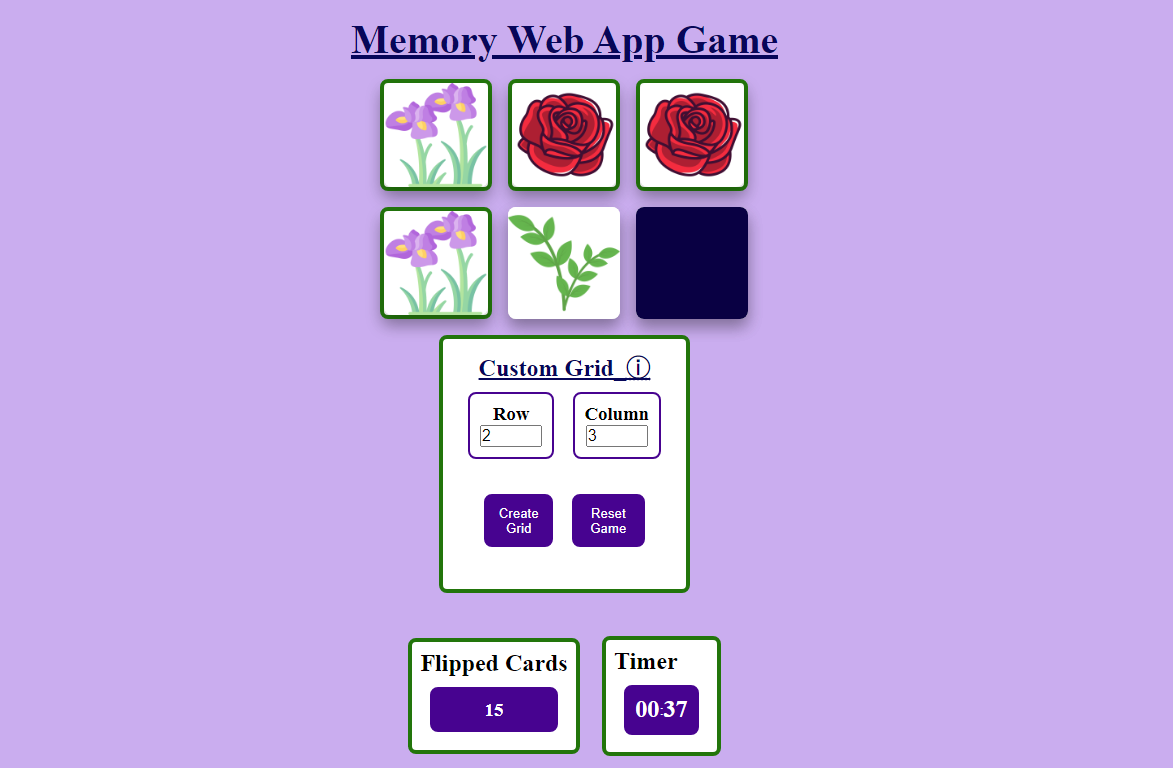
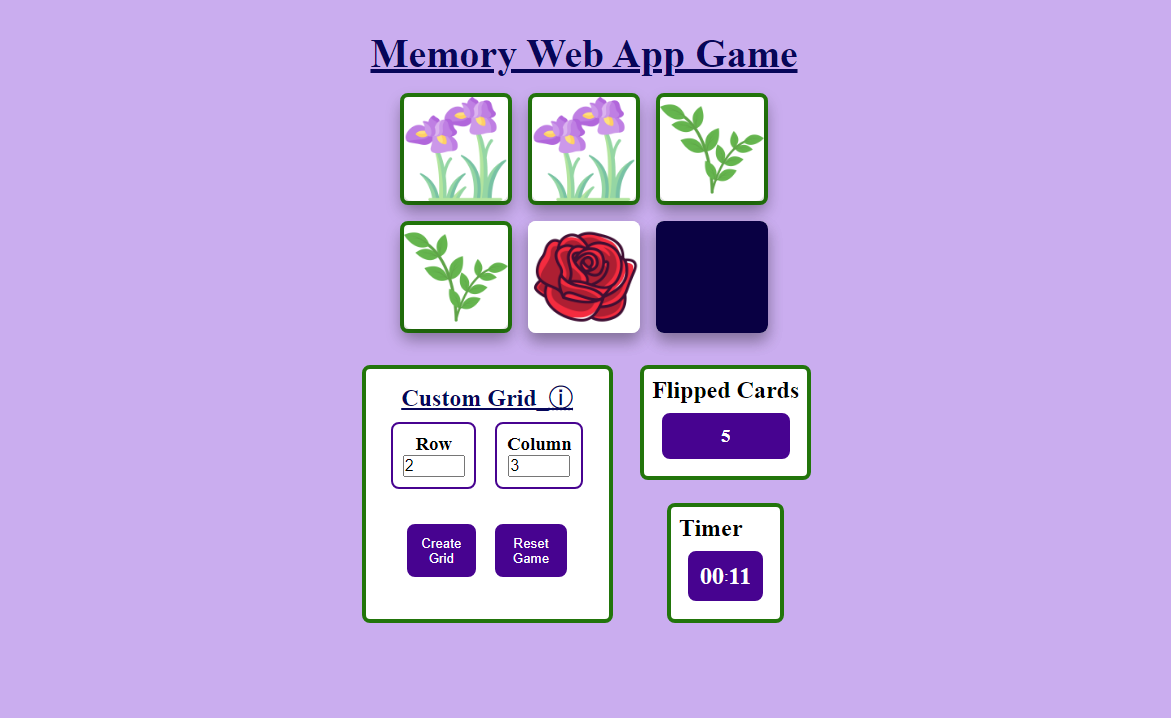
modified styling

Changed region(s): [[0.2767, 0.0306, 0.7071, 1.0]]

diff --git a/index.html b/index.html
@@ -15,30 +15,33 @@
         <section></section> 
     </div>
 
-    <div class="customGrid"> 
-      <h2 class="gridHeading">Custom Grid_  
-        <abbr title="Choose a number between 2 and 6 for both grids. Product of row and column must not be odd."> &#9432;</abbr>                                                                                                
-      </h2> 
+    <div class="features">
 
-      <div class="dimensions">
-        <div class="rows">
-          <h3>Row</h3>
-          <input type="number" id="rowValue" min="2" max="6" placeholder="rows">
-        </div> 
+      <div class="customGrid"> 
+        <h2 class="gridHeading">Custom Grid_  
+          <abbr title="Choose a number between 2 and 6 for both grids. Product of row and column must not be odd."> &#9432;</abbr>                                                                                                
+        </h2> 
 
-        <div class="columns">
-          <h3>Column</h3>
-          <input type="number" id="columnValue" min="2" max="6" placeholder="columns">
-        </div> 
-      </div>
+        <div class="dimensions">
+          <div class="rows">
+            <h3>Row</h3>
+            <input type="number" id="rowValue" min="2" max="6" placeholder="rows">
+          </div> 
 
-      <div class="buttons">
-        <button id="gridButton">Create Grid</button>
-        <button id="resetGameButton">Reset Game</button>
-      </div>
+          <div class="columns">
+            <h3>Column</h3>
+            <input type="number" id="columnValue" min="2" max="6" placeholder="columns">
+          </div> 
+        </div>
+
+        <div class="buttons">
+          <button id="gridButton">Create Grid</button>
+          <button id="resetGameButton">Reset Game</button>
+        </div>
     </div>
     
-    <div class="features">
+    <div class="side-feature">
+
       <div class="flipsContainer">
         <h2>Flipped Cards</h2> 
         <div class="flippedCards">
@@ -52,6 +55,7 @@
           <h3 id="minutes">00</h3>:<h3 id="seconds">00</h3>
         </div>
       </div>
+    </div>
       
     </div>
   </div>

diff --git a/styles/index.css b/styles/index.css
@@ -219,7 +219,13 @@ section{
     justify-content: center;
     align-items: center;
     margin: 1rem;
+}
 
+.side-feature{
+    display: flex;
+    flex-direction: column;
+    justify-content: center;
+    align-items: center;
 }
     
 input {
